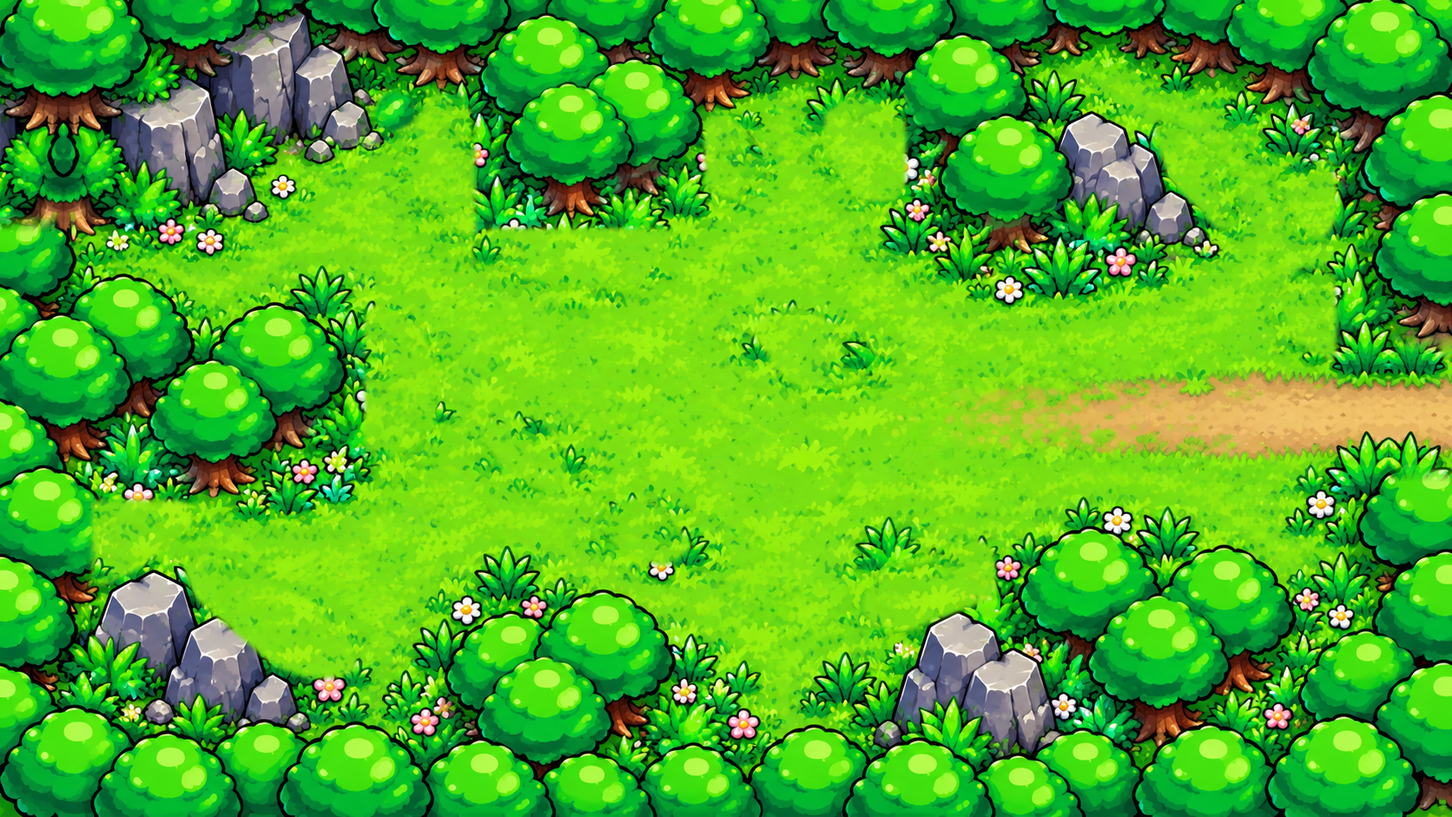
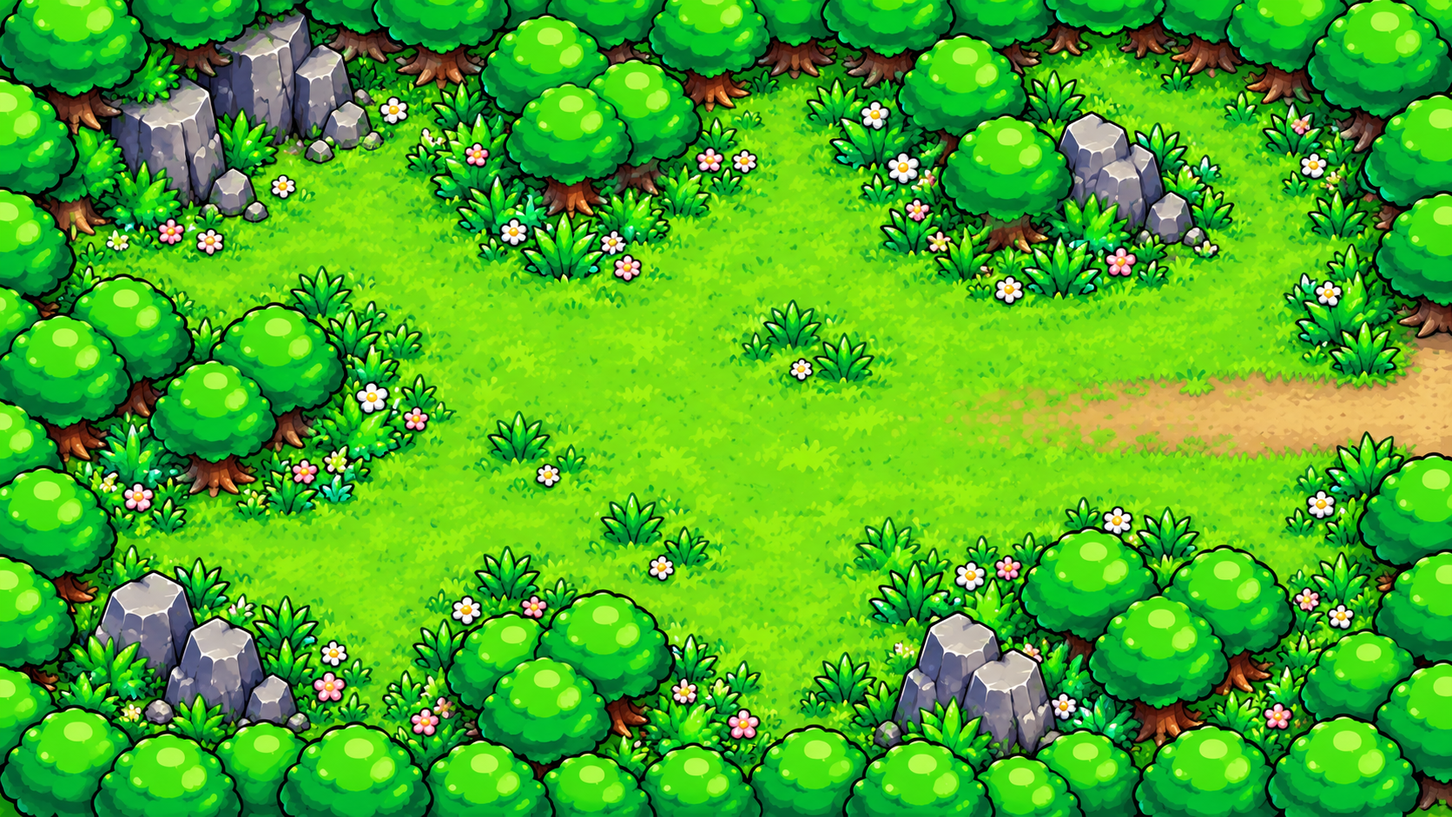
Jeu Spirit v54 : plus aucun collage sur les images peintes, textes cohérents
- écrans de la loge et de Mika : plus rien de dessiné par-dessus, en attendant les images ChatGPT (PRO-10 couvre les trois écrans, QG-13)
- Plaine : écrans d'origine sans retouche (plus de sol reconstitué ni de bords recopiés) ; seuls les rochers, découpés au pixel près, passent devant Spirit
- textes revus pour coller à ce qu'on voit (Mika, réveil, ermite, Flash, Manette, panneau)
- jeu-spirit/CLAUDE.md : règles de Jonathan (cohérence, jamais de collage, logique du monde)

Claude-Session: https://claude.ai/code/session_01H9Lthdyi4Yt8UdeFU5WNwb

diff --git a/jeu-spirit/jeu/js/decoupes.js b/jeu-spirit/jeu/js/decoupes.js
@@ -1,3 +1,3 @@
 // Généré par outils/decoupes_plaine.py : rochers et touffes découpés dans les écrans peints
 'use strict';
-SG.DECOUPES = {"1,2":[{"t":"h","s":[447,0,87,53],"d":[486.1,84.2,66.6,40.6],"b":124.0,"c":"#25ad1d"},{"t":"h","s":[536,0,108,67],"d":[729.6,84.2,82.7,51.3],"b":134.7,"c":"#1ba221"},{"t":"h","s":[646,0,104,59],"d":[889.6,84.2,79.6,45.2],"b":128.6,"c":"#1c9f21"},{"t":"h","s":[752,0,45,43],"d":[970.0,122.5,34.4,32.9],"b":154.6,"c":"#83b17b"},{"t":"h","s":[799,0,60,84],"d":[463.9,130.9,45.9,64.3],"b":194.4,"c":"#27a31d"},{"t":"h","s":[861,0,43,43],"d":[528.2,156.9,32.9,32.9],"b":189.1,"c":"#83b47f"},{"t":"h","s":[906,0,56,48],"d":[1022.8,202.9,42.9,36.7],"b":238.9,"c":"#2da51a"},{"t":"h","s":[964,0,44,49],"d":[1071.0,222.8,33.7,37.5],"b":259.5,"c":"#77ab74"},{"t":"h","s":[1010,0,59,52],"d":[538.2,231.2,45.2,39.8],"b":270.2,"c":"#27a51c"},{"t":"h","s":[1071,0,57,49],"d":[811.5,242.7,43.6,37.5],"b":279.4,"c":"#29a519"},{"t":"h","s":[1130,0,59,51],"d":[699.7,258.0,45.2,39.0],"b":296.3,"c":"#29ab19"},{"t":"h","s":[1191,0,50,72],"d":[1156.7,273.3,38.3,55.1],"b":327.7,"c":"#2cad1d"},{"t":"h","s":[1243,0,50,46],"d":[885.0,274.8,38.3,35.2],"b":309.3,"c":"#25ac1c"},{"t":"h","s":[1295,0,67,51],"d":[88.8,284.0,51.3,39.0],"b":322.3,"c":"#0f9624"},{"t":"h","s":[1364,0,54,44],"d":[392.7,287.8,41.3,33.7],"b":320.8,"c":"#27a61b"},{"t":"h","s":[1420,0,57,46],"d":[186.0,288.6,43.6,35.2],"b":323.1,"c":"#24a21d"},{"t":"h","s":[1479,0,92,59],"d":[261.8,289.4,70.4,45.2],"b":333.8,"c":"#73ae57"},{"t":"h","s":[1573,0,63,53],"d":[786.2,299.3,48.2,40.6],"b":339.1,"c":"#27a51c"},{"t":"h","s":[1638,0,53,42],"d":[938.6,311.6,40.6,32.2],"b":343.0,"c":"#2da51a"},{"t":"h","s":[1693,0,54,45],"d":[1113.1,311.6,41.3,34.4],"b":345.3,"c":"#2ca61a"},{"t":"h","s":[1749,0,51,35],"d":[472.3,316.2,39.0,26.8],"b":342.2,"c":"#31aa18"},{"t":"h","s":[1802,0,64,55],"d":[328.4,433.3,49.0,42.1],"b":474.6,"c":"#21a21d"},{"t":"h","s":[1868,0,55,45],"d":[903.3,464.7,42.1,34.4],"b":498.4,"c":"#28a31b"},{"t":"h","s":[1925,0,59,46],"d":[675.2,474.6,45.2,35.2],"b":509.1,"c":"#29a71b"},{"t":"h","s":[1986,0,45,38],"d":[966.9,498.4,34.4,29.1],"b":526.7,"c":"#80b27b"},{"t":"h","s":[0,261,59,50],"d":[913.3,516.7,45.2,38.3],"b":554.3,"c":"#29a61c"},{"t":"h","s":[61,261,47,36],"d":[148.5,527.5,36.0,27.6],"b":554.3,"c":"#8e8c67"},{"t":"h","s":[110,261,58,49],"d":[718.1,531.3,44.4,37.5],"b":568.0,"c":"#26a41b"},{"t":"h","s":[170,261,47,47],"d":[778.6,533.6,36.0,36.0],"b":568.8,"c":"#81b278"},{"t":"h","s":[219,261,89,45],"d":[819.1,560.4,68.1,34.4],"b":594.1,"c":"#32ab1b"}],"1,1":[{"t":"r","s":[0,0,189,119],"d":[214.4,143.2,144.7,91.1],"b":233.5},{"t":"r","s":[191,0,131,87],"d":[824.5,144.7,100.3,66.6],"b":210.5},{"t":"r","s":[324,0,73,66],"d":[1011.3,222.0,55.9,50.5],"b":271.8},{"t":"r","s":[399,0,194,134],"d":[194.4,488.4,148.5,102.6],"b":590.2},{"t":"r","s":[595,0,220,133],"d":[939.3,499.9,168.4,101.8],"b":601.0},{"t":"h","s":[817,0,60,52],"d":[506.8,65.8,45.9,39.8],"b":104.9,"c":"#229b15"},{"t":"h","s":[879,0,94,53],"d":[421.1,92.6,72.0,40.6],"b":132.4,"c":"#3ba225"},{"t":"h","s":[975,0,38,34],"d":[809.2,103.3,29.1,26.0],"b":128.6,"c":"#6a8442"},{"t":"h","s":[1015,0,44,38],"d":[924.0,104.1,33.7,29.1],"b":132.4,"c":"#618b38"},{"t":"h","s":[1061,0,50,70],"d":[917.1,150.0,38.3,53.6],"b":202.9,"c":"#259612"},{"t":"h","s":[1113,0,56,53],"d":[924.8,203.6,42.9,40.6],"b":243.4,"c":"#239814"},{"t":"h","s":[1171,0,82,69],"d":[418.8,215.9,62.8,52.8],"b":267.9,"c":"#249b17"},{"t":"h","s":[1255,0,55,53],"d":[966.1,238.1,42.1,40.6],"b":277.9,"c":"#34a50d"},{"t":"h","s":[1312,0,39,48],"d":[365.2,242.7,29.9,36.7],"b":278.7,"c":"#67a54a"},{"t":"h","s":[1353,0,60,51],"d":[253.4,245.7,45.9,39.0],"b":284.0,"c":"#209616"},{"t":"h","s":[1415,0,38,41],"d":[492.2,251.1,29.1,31.4],"b":281.7,"c":"#6a8a3f"},{"t":"h","s":[1455,0,55,47],"d":[906.4,252.6,42.1,36.0],"b":287.8,"c":"#279c16"},{"t":"h","s":[1512,0,52,44],"d":[324.6,254.2,39.8,33.7],"b":287.1,"c":"#269a17"},{"t":"h","s":[1566,0,51,37],"d":[176.1,405.0,39.0,28.3],"b":432.5,"c":"#2ba013"},{"t":"h","s":[1619,0,55,66],"d":[736.5,409.6,42.1,50.5],"b":459.3,"c":"#52a831"},{"t":"h","s":[1676,0,55,39],"d":[1086.3,410.3,42.1,29.9],"b":439.4,"c":"#63903b"},{"t":"h","s":[1733,0,40,37],"d":[395.0,411.9,30.6,28.3],"b":439.4,"c":"#6e9e55"},{"t":"h","s":[1775,0,63,56],"d":[441.7,417.2,48.2,42.9],"b":459.3,"c":"#259816"},{"t":"h","s":[1840,0,41,37],"d":[131.7,456.3,31.4,28.3],"b":483.8,"c":"#6b9d57"},{"t":"h","s":[1883,0,49,37],"d":[372.1,509.9,37.5,28.3],"b":537.4,"c":"#6ea14d"},{"t":"h","s":[1934,0,41,38],"d":[1069.5,509.9,31.4,29.1],"b":538.2,"c":"#3b9b0e"},{"t":"h","s":[1977,0,51,34],"d":[813.8,512.9,39.0,26.0],"b":538.2,"c":"#35a710"},{"t":"h","s":[0,136,55,55],"d":[918.7,532.8,42.1,42.1],"b":574.2,"c":"#339711"},{"t":"h","s":[57,136,67,50],"d":[84.2,536.7,51.3,38.3],"b":574.2,"c":"#31a510"},{"t":"h","s":[126,136,47,40],"d":[182.2,544.3,36.0,30.6],"b":574.2,"c":"#187713"}],"1,0":[{"t":"r","s":[0,0,250,129],"d":[288.6,106.4,191.4,98.8],"b":204.4},{"t":"r","s":[252,0,248,151],"d":[161.5,447.8,189.9,115.6],"b":562.7},{"t":"r","s":[502,0,137,108],"d":[832.2,487.7,104.9,82.7],"b":569.6},{"t":"h","s":[641,0,76,83],"d":[696.7,84.2,58.2,63.5],"b":147.0,"c":"#42a72c"},{"t":"h","s":[719,0,38,34],"d":[216.7,88.8,29.1,26.0],"b":114.1,"c":"#73a160"},{"t":"h","s":[759,0,50,51],"d":[442.5,117.1,38.3,39.0],"b":155.4,"c":"#1c8a1e"},{"t":"h","s":[811,0,89,50],"d":[505.3,117.9,68.1,38.3],"b":155.4,"c":"#38a12a"},{"t":"h","s":[902,0,70,85],"d":[701.2,169.2,53.6,65.1],"b":233.5,"c":"#369c28"},{"t":"h","s":[974,0,40,50],"d":[1144.5,199.8,30.6,38.3],"b":237.3,"c":"#23931d"},{"t":"h","s":[1016,0,40,64],"d":[1144.5,253.4,30.6,49.0],"b":301.6,"c":"#3ba125"},{"t":"h","s":[1058,0,55,43],"d":[324.6,264.1,42.1,32.9],"b":296.3,"c":"#199a20"},{"t":"h","s":[1115,0,69,57],"d":[454.7,267.2,52.8,43.6],"b":310.0,"c":"#19901d"},{"t":"h","s":[1186,0,54,41],"d":[1148.3,390.4,41.3,31.4],"b":421.1,"c":"#25a21c"},{"t":"h","s":[1242,0,45,41],"d":[156.9,391.2,34.4,31.4],"b":421.8,"c":"#82935c"},{"t":"h","s":[1289,0,108,65],"d":[780.1,399.6,82.7,49.8],"b":448.6,"c":"#3aa42b"},{"t":"h","s":[1399,0,64,54],"d":[518.3,438.7,49.0,41.3],"b":479.2,"c":"#1e961d"},{"t":"h","s":[1465,0,42,34],"d":[193.7,440.2,32.2,26.0],"b":465.5,"c":"#31a61a"},{"t":"h","s":[1509,0,44,51],"d":[745.6,444.0,33.7,39.0],"b":482.3,"c":"#789a51"},{"t":"h","s":[1555,0,54,44],"d":[108.7,460.1,41.3,33.7],"b":493.0,"c":"#289d1d"},{"t":"h","s":[1611,0,48,42],"d":[314.6,481.5,36.7,32.2],"b":512.9,"c":"#1b8e1b"},{"t":"h","s":[1661,0,60,46],"d":[985.3,487.7,45.9,35.2],"b":522.1,"c":"#1b9920"},{"t":"h","s":[1723,0,64,53],"d":[460.1,497.6,49.0,40.6],"b":537.4,"c":"#199520"},{"t":"h","s":[1789,0,107,79],"d":[803.8,517.5,81.9,60.5],"b":577.2,"c":"#328139"},{"t":"h","s":[1898,0,70,59],"d":[712.0,539.7,53.6,45.2],"b":584.1,"c":"#1e961e"},{"t":"h","s":[1970,0,43,35],"d":[488.4,548.1,32.9,26.8],"b":574.2,"c":"#8b9866"},{"t":"h","s":[0,153,40,39],"d":[775.5,560.4,30.6,29.9],"b":589.5,"c":"#7fa15d"}],"0,1":[{"t":"r","s":[0,0,312,238],"d":[92.6,9.2,238.9,182.2],"b":190.6},{"t":"r","s":[314,0,171,156],"d":[930.9,98.0,130.9,119.4],"b":216.7},{"t":"r","s":[487,0,237,181],"d":[80.4,503.0,181.4,138.6],"b":640.8},{"t":"r","s":[726,0,173,160],"d":[789.3,538.9,132.4,122.5],"b":660.7},{"t":"h","s":[901,0,38,37],"d":[333.8,84.2,29.1,28.3],"b":111.8,"c":"#85a16b"},{"t":"h","s":[941,0,80,159],"d":[355.2,84.2,61.2,121.7],"b":205.2,"c":"#329a22"},{"t":"h","s":[1023,0,86,119],"d":[729.6,84.2,65.8,91.1],"b":174.5,"c":"#339a32"},{"t":"h","s":[1111,0,60,93],"d":[623.9,100.3,45.9,71.2],"b":170.7,"c":"#50a033"},{"t":"h","s":[1173,0,91,116],"d":[1020.5,110.2,69.7,88.8],"b":198.3,"c":"#43aa24"},{"t":"h","s":[1266,0,61,84],"d":[1128.4,143.9,46.7,64.3],"b":207.5,"c":"#46a428"},{"t":"h","s":[1329,0,222,61],"d":[419.5,204.4,170.0,46.7],"b":250.3,"c":"#42a12e"},{"t":"h","s":[1553,0,57,97],"d":[1131.5,239.6,43.6,74.3],"b":313.1,"c":"#3ca036"},{"t":"h","s":[1612,0,78,178],"d":[324.6,271.8,59.7,136.3],"b":407.3,"c":"#46aa29"},{"t":"h","s":[1692,0,136,87],"d":[666.8,271.8,104.1,66.6],"b":337.6,"c":"#39a723"},{"t":"h","s":[1830,0,89,82],"d":[427.9,369.8,68.1,62.8],"b":431.8,"c":"#3fa728"},{"t":"h","s":[1921,0,102,70],"d":[527.5,441.7,78.1,53.6],"b":494.5,"c":"#32a61d"},{"t":"h","s":[0,240,108,90],"d":[84.2,444.0,82.7,68.9],"b":512.2,"c":"#2c941c"},{"t":"h","s":[110,240,145,98],"d":[764.0,479.2,111.0,75.0],"b":553.5,"c":"#3aa32c"},{"t":"h","s":[257,240,190,138],"d":[166.1,489.2,145.5,105.6],"b":594.1,"c":"#45a824"}],"0,2":[{"t":"r","s":[0,0,84,77],"d":[77.3,98.8,64.3,58.9],"b":156.9},{"t":"r","s":[86,0,82,73],"d":[1058.8,52.1,62.8,55.9],"b":107.2},{"t":"r","s":[170,0,94,78],"d":[499.1,485.4,72.0,59.7],"b":544.3},{"t":"r","s":[266,0,62,68],"d":[84.2,488.4,47.5,52.1],"b":539.7},{"t":"r","s":[330,0,68,63],"d":[149.3,573.4,52.1,48.2],"b":620.9},{"t":"r","s":[400,0,104,81],"d":[1121.5,520.6,79.6,62.0],"b":581.8},{"t":"h","s":[506,0,98,65],"d":[148.5,84.2,75.0,49.8],"b":133.2,"c":"#2f9830"},{"t":"h","s":[606,0,143,58],"d":[676.0,84.2,109.5,44.4],"b":127.8,"c":"#2f932d"},{"t":"h","s":[751,0,116,51],"d":[982.2,84.2,88.8,39.0],"b":122.5,"c":"#318d32"},{"t":"h","s":[869,0,45,45],"d":[240.4,151.6,34.4,34.4],"b":185.3,"c":"#85b177"},{"t":"h","s":[916,0,38,65],"d":[1118.5,161.5,29.1,49.8],"b":210.5,"c":"#1f9628"},{"t":"h","s":[956,0,47,43],"d":[111.0,236.6,36.0,32.9],"b":268.7,"c":"#92b97a"},{"t":"h","s":[1005,0,50,79],"d":[84.2,281.7,38.3,60.5],"b":341.4,"c":"#30a822"},{"t":"h","s":[1057,0,50,50],"d":[170.0,332.2,38.3,38.3],"b":369.8,"c":"#908557"},{"t":"h","s":[1109,0,48,46],"d":[1054.2,397.3,36.7,35.2],"b":431.8,"c":"#9c895b"},{"t":"h","s":[1159,0,85,76],"d":[975.3,404.2,65.1,58.2],"b":461.6,"c":"#28a020"},{"t":"h","s":[1246,0,64,58],"d":[183.7,447.8,49.0,44.4],"b":491.5,"c":"#27a021"},{"t":"h","s":[1312,0,48,43],"d":[641.5,473.1,36.7,32.9],"b":505.3,"c":"#8bb675"},{"t":"h","s":[1362,0,48,43],"d":[228.1,495.3,36.7,32.9],"b":527.5,"c":"#93b97c"},{"t":"h","s":[1412,0,49,45],"d":[946.2,497.6,37.5,34.4],"b":531.3,"c":"#90b97b"},{"t":"h","s":[1463,0,82,45],"d":[1005.9,560.4,62.8,34.4],"b":594.1,"c":"#799743"},{"t":"h","s":[1547,0,56,36],"d":[940.1,567.3,42.9,27.6],"b":594.1,"c":"#40b51c"}],"2,0":[{"t":"r","s":[0,0,199,199],"d":[1058.0,49.0,152.3,152.3],"b":200.6},{"t":"r","s":[201,0,237,149],"d":[1037.3,527.5,181.4,114.1],"b":640.8},{"t":"h","s":[440,0,39,37],"d":[1039.6,113.3,29.9,28.3],"b":140.9,"c":"#18841a"},{"t":"h","s":[481,0,182,108],"d":[918.7,143.2,139.3,82.7],"b":225.1,"c":"#38ac1c"},{"t":"h","s":[665,0,39,39],"d":[405.0,146.2,29.9,29.9],"b":175.3,"c":"#2da31a"},{"t":"h","s":[706,0,44,37],"d":[877.3,148.5,33.7,28.3],"b":176.1,"c":"#29a319"},{"t":"h","s":[752,0,70,56],"d":[356.0,164.6,53.6,42.9],"b":206.7,"c":"#509d32"},{"t":"h","s":[824,0,44,40],"d":[1064.1,179.9,33.7,30.6],"b":209.8,"c":"#5fa054"},{"t":"h","s":[870,0,68,65],"d":[824.5,183.7,52.1,49.8],"b":232.7,"c":"#35922a"},{"t":"h","s":[940,0,63,66],"d":[85.7,184.5,48.2,50.5],"b":234.3,"c":"#3a9c34"},{"t":"h","s":[1005,0,68,37],"d":[211.3,184.5,52.1,28.3],"b":212.1,"c":"#1c9e1d"},{"t":"h","s":[1075,0,70,52],"d":[150.0,199.0,53.6,39.8],"b":238.1,"c":"#20a31c"},{"t":"h","s":[1147,0,48,37],"d":[865.1,229.7,36.7,28.3],"b":257.2,"c":"#2da319"},{"t":"h","s":[1197,0,54,41],"d":[919.4,237.3,41.3,31.4],"b":267.9,"c":"#51a440"},{"t":"h","s":[1253,0,128,77],"d":[300.1,241.1,98.0,58.9],"b":299.3,"c":"#27a41d"},{"t":"h","s":[1383,0,50,47],"d":[479.2,264.1,38.3,36.0],"b":299.3,"c":"#2a9f15"},{"t":"h","s":[1435,0,50,62],"d":[744.1,264.1,38.3,47.5],"b":310.8,"c":"#0b791c"},{"t":"h","s":[1487,0,51,59],"d":[394.3,300.1,39.0,45.2],"b":344.5,"c":"#29a51c"},{"t":"h","s":[1540,0,44,35],"d":[966.9,318.5,33.7,26.8],"b":344.5,"c":"#2da019"},{"t":"h","s":[1586,0,48,36],"d":[729.6,348.3,36.7,27.6],"b":375.1,"c":"#30a21a"},{"t":"h","s":[1636,0,68,49],"d":[852.1,356.0,52.1,37.5],"b":392.7,"c":"#74a051"},{"t":"h","s":[1706,0,91,75],"d":[359.0,397.3,69.7,57.4],"b":454.0,"c":"#28a41d"},{"t":"h","s":[1799,0,58,50],"d":[836.0,414.2,44.4,38.3],"b":451.7,"c":"#24a11a"},{"t":"h","s":[1859,0,45,54],"d":[421.1,450.9,34.4,41.3],"b":491.5,"c":"#2da31b"},{"t":"h","s":[1906,0,57,48],"d":[473.1,459.3,43.6,36.7],"b":495.3,"c":"#25a11b"},{"t":"h","s":[1965,0,75,77],"d":[303.9,466.2,57.4,58.9],"b":524.4,"c":"#22a21e"},{"t":"h","s":[0,201,77,52],"d":[862.0,478.5,58.9,39.8],"b":517.5,"c":"#24a51d"},{"t":"h","s":[79,201,58,49],"d":[1120.0,493.0,44.4,37.5],"b":529.8,"c":"#59aa3a"},{"t":"h","s":[139,201,85,60],"d":[932.4,500.7,65.1,45.9],"b":545.8,"c":"#49a12d"},{"t":"h","s":[226,201,88,83],"d":[794.6,509.1,67.4,63.5],"b":571.9,"c":"#43a728"},{"t":"h","s":[316,201,75,47],"d":[378.9,516.7,57.4,36.0],"b":552.0,"c":"#51aa3d"},{"t":"h","s":[393,201,51,38],"d":[581.8,524.4,39.0,29.1],"b":552.7,"c":"#2ba11b"},{"t":"h","s":[446,201,75,45],"d":[679.8,560.4,57.4,34.4],"b":594.1,"c":"#29a91c"},{"t":"h","s":[523,201,53,44],"d":[738.0,561.1,40.6,33.7],"b":594.1,"c":"#67ad47"},{"t":"h","s":[578,201,74,40],"d":[335.3,564.2,56.7,30.6],"b":594.1,"c":"#38a91b"},{"t":"h","s":[654,201,79,34],"d":[523.6,568.8,60.5,26.0],"b":594.1,"c":"#4ca32d"}],"2,1":[{"t":"r","s":[0,0,514,376],"d":[777.8,73.5,393.5,287.8],"b":360.6},{"t":"h","s":[516,0,49,34],"d":[265.6,104.1,37.5,26.0],"b":129.4,"c":"#158e22"},{"t":"h","s":[567,0,99,71],"d":[349.1,104.1,75.8,54.4],"b":157.7,"c":"#249f1e"},{"t":"h","s":[668,0,73,52],"d":[474.6,104.1,55.9,39.8],"b":143.2,"c":"#289b1d"},{"t":"h","s":[743,0,127,51],"d":[672.2,104.1,97.2,39.0],"b":142.4,"c":"#1ea220"},{"t":"h","s":[872,0,71,67],"d":[784.7,125.6,54.4,51.3],"b":176.1,"c":"#35a018"},{"t":"h","s":[945,0,44,45],"d":[636.9,127.8,33.7,34.4],"b":161.5,"c":"#80ab71"},{"t":"h","s":[991,0,118,91],"d":[529.8,129.4,90.3,69.7],"b":198.3,"c":"#27a01f"},{"t":"h","s":[1111,0,88,71],"d":[715.0,158.5,67.4,54.4],"b":212.1,"c":"#2c9e1c"},{"t":"h","s":[1201,0,65,53],"d":[215.9,209.8,49.8,40.6],"b":249.6,"c":"#2b9b1e"},{"t":"h","s":[1268,0,71,57],"d":[487.7,219.7,54.4,43.6],"b":262.6,"c":"#299c1e"},{"t":"h","s":[1341,0,41,40],"d":[1060.3,269.5,31.4,30.6],"b":299.3,"c":"#0e6518"},{"t":"h","s":[1384,0,101,91],"d":[829.1,271.8,77.3,69.7],"b":340.7,"c":"#2f882c"},{"t":"h","s":[1487,0,81,65],"d":[666.0,298.6,62.0,49.8],"b":347.6,"c":"#2b9d1d"},{"t":"h","s":[1570,0,49,34],"d":[570.3,300.1,37.5,26.0],"b":325.4,"c":"#34a51b"},{"t":"h","s":[1621,0,68,35],"d":[1002.9,330.7,52.1,26.8],"b":356.7,"c":"#23632d"},{"t":"h","s":[1691,0,46,45],"d":[1133.0,346.8,35.2,34.4],"b":380.5,"c":"#80a873"},{"t":"h","s":[1739,0,45,62],"d":[84.2,369.0,34.4,47.5],"b":415.7,"c":"#2da221"},{"t":"h","s":[1786,0,42,61],"d":[1162.9,375.1,32.2,46.7],"b":421.1,"c":"#2d9f1f"},{"t":"h","s":[1830,0,47,45],"d":[625.5,388.1,36.0,34.4],"b":421.8,"c":"#81aa74"},{"t":"h","s":[1879,0,68,58],"d":[951.6,402.7,52.1,44.4],"b":446.3,"c":"#2d9f1f"},{"t":"h","s":[1949,0,44,44],"d":[367.5,478.5,33.7,33.7],"b":511.4,"c":"#878a5e"},{"t":"h","s":[1995,0,45,46],"d":[696.7,539.7,34.4,35.2],"b":574.2,"c":"#898e5e"}],"2,2":[{"t":"r","s":[0,0,70,65],"d":[62.8,232.0,53.6,49.8],"b":281.0},{"t":"r","s":[72,0,518,252],"d":[114.8,65.1,396.6,192.9],"b":257.2},{"t":"r","s":[592,0,428,254],"d":[823.7,77.3,327.7,194.4],"b":271.0},{"t":"r","s":[1022,0,89,84],"d":[731.9,327.7,68.1,64.3],"b":391.2},{"t":"r","s":[1113,0,73,66],"d":[450.1,408.0,55.9,50.5],"b":457.8},{"t":"r","s":[1188,0,72,83],"d":[1103.2,398.1,55.1,63.5],"b":460.9},{"t":"r","s":[1262,0,129,111],"d":[128.6,496.8,98.8,85.0],"b":581.1},{"t":"r","s":[1393,0,87,80],"d":[824.5,546.6,66.6,61.2],"b":607.1},{"t":"h","s":[1482,0,100,61],"d":[118.7,84.2,76.6,46.7],"b":130.1,"c":"#39941c"},{"t":"h","s":[1584,0,123,79],"d":[700.5,84.2,94.2,60.5],"b":143.9,"c":"#2b911e"},{"t":"h","s":[1709,0,65,59],"d":[798.5,117.1,49.8,45.2],"b":161.5,"c":"#24981a"},{"t":"h","s":[1776,0,67,58],"d":[537.4,137.8,51.3,44.4],"b":181.4,"c":"#259a1a"},{"t":"h","s":[1845,0,101,83],"d":[715.0,147.8,77.3,63.5],"b":210.5,"c":"#249c1d"},{"t":"h","s":[1948,0,42,51],"d":[1162.9,175.3,32.2,39.0],"b":213.6,"c":"#21911d"},{"t":"h","s":[1992,0,52,62],"d":[1120.8,191.4,39.8,47.5],"b":238.1,"c":"#298222"},{"t":"h","s":[0,256,116,151],"d":[222.8,196.7,88.8,115.6],"b":311.6,"c":"#2c9722"},{"t":"h","s":[118,256,94,72],"d":[776.3,206.7,72.0,55.1],"b":261.1,"c":"#499b2d"},{"t":"h","s":[214,256,43,47],"d":[492.2,207.5,32.9,36.0],"b":242.7,"c":"#2d6843"},{"t":"h","s":[259,256,45,37],"d":[718.9,226.6,34.4,28.3],"b":254.2,"c":"#2c9a1b"},{"t":"h","s":[306,256,100,62],"d":[930.1,227.4,76.6,47.5],"b":274.1,"c":"#2c6f36"},{"t":"h","s":[408,256,62,39],"d":[379.7,251.9,47.5,29.9],"b":281.0,"c":"#16821b"},{"t":"h","s":[472,256,68,69],"d":[91.9,259.5,52.1,52.8],"b":311.6,"c":"#248a21"},{"t":"h","s":[542,256,67,58],"d":[761.0,267.2,51.3,44.4],"b":310.8,"c":"#25971c"},{"t":"h","s":[611,256,56,41],"d":[1026.6,267.9,42.9,31.4],"b":298.6,"c":"#1f8b1e"},{"t":"h","s":[669,256,105,125],"d":[796.2,301.6,80.4,95.7],"b":396.6,"c":"#279321"},{"t":"h","s":[776,256,68,62],"d":[983.0,308.5,52.1,47.5],"b":355.2,"c":"#299d1c"},{"t":"h","s":[846,256,41,51],"d":[696.7,352.9,31.4,39.0],"b":391.2,"c":"#29991a"},{"t":"h","s":[889,256,43,64],"d":[1162.1,361.3,32.9,49.0],"b":409.6,"c":"#20931e"},{"t":"h","s":[934,256,141,106],"d":[950.8,380.5,107.9,81.1],"b":460.9,"c":"#2f9c25"},{"t":"h","s":[1077,256,51,42],"d":[832.9,407.3,39.0,32.2],"b":438.7,"c":"#289719"},{"t":"h","s":[1130,256,141,99],"d":[207.5,412.6,107.9,75.8],"b":487.7,"c":"#269a1e"},{"t":"h","s":[1273,256,107,74],"d":[487.7,421.1,81.9,56.7],"b":476.9,"c":"#268728"},{"t":"h","s":[1382,256,50,47],"d":[320.8,428.7,38.3,36.0],"b":463.9,"c":"#65a951"},{"t":"h","s":[1434,256,44,49],"d":[422.6,430.2,33.7,37.5],"b":467.0,"c":"#228f1a"},{"t":"h","s":[1480,256,60,59],"d":[150.8,433.3,45.9,45.2],"b":477.7,"c":"#5a8e3b"},{"t":"h","s":[1542,256,41,36],"d":[998.3,482.3,31.4,27.6],"b":509.1,"c":"#4d9a36"},{"t":"h","s":[1585,256,95,49],"d":[414.9,510.6,72.7,37.5],"b":547.4,"c":"#549534"},{"t":"h","s":[1682,256,84,46],"d":[548.1,539.7,64.3,35.2],"b":574.2,"c":"#39a91c"},{"t":"h","s":[1768,256,57,37],"d":[771.7,546.6,43.6,28.3],"b":574.2,"c":"#32a11b"}]};
+SG.DECOUPES = {"1,2":[],"1,1":[{"t":"r","s":[0,0,189,119],"d":[214.4,143.2,144.7,91.1],"b":233.5},{"t":"r","s":[191,0,131,87],"d":[824.5,144.7,100.3,66.6],"b":210.5},{"t":"r","s":[324,0,73,66],"d":[1011.3,222.0,55.9,50.5],"b":271.8},{"t":"r","s":[399,0,194,134],"d":[194.4,488.4,148.5,102.6],"b":590.2},{"t":"r","s":[595,0,220,133],"d":[939.3,499.9,168.4,101.8],"b":601.0}],"1,0":[{"t":"r","s":[0,0,250,129],"d":[288.6,106.4,191.4,98.8],"b":204.4},{"t":"r","s":[252,0,248,151],"d":[161.5,447.8,189.9,115.6],"b":562.7},{"t":"r","s":[502,0,137,108],"d":[832.2,487.7,104.9,82.7],"b":569.6}],"0,1":[{"t":"r","s":[0,0,312,238],"d":[92.6,9.2,238.9,182.2],"b":190.6},{"t":"r","s":[314,0,171,156],"d":[930.9,98.0,130.9,119.4],"b":216.7},{"t":"r","s":[487,0,237,181],"d":[80.4,503.0,181.4,138.6],"b":640.8},{"t":"r","s":[726,0,173,160],"d":[789.3,538.9,132.4,122.5],"b":660.7}],"0,2":[{"t":"r","s":[0,0,84,77],"d":[77.3,98.8,64.3,58.9],"b":156.9},{"t":"r","s":[86,0,82,73],"d":[1058.8,52.1,62.8,55.9],"b":107.2},{"t":"r","s":[170,0,94,78],"d":[499.1,485.4,72.0,59.7],"b":544.3},{"t":"r","s":[266,0,62,68],"d":[84.2,488.4,47.5,52.1],"b":539.7},{"t":"r","s":[330,0,68,63],"d":[149.3,573.4,52.1,48.2],"b":620.9},{"t":"r","s":[400,0,104,81],"d":[1121.5,520.6,79.6,62.0],"b":581.8}],"2,0":[{"t":"r","s":[0,0,199,199],"d":[1058.0,49.0,152.3,152.3],"b":200.6},{"t":"r","s":[201,0,237,149],"d":[1037.3,527.5,181.4,114.1],"b":640.8}],"2,1":[{"t":"r","s":[0,0,514,376],"d":[777.8,73.5,393.5,287.8],"b":360.6}],"2,2":[{"t":"r","s":[0,0,70,65],"d":[62.8,232.0,53.6,49.8],"b":281.0},{"t":"r","s":[72,0,518,252],"d":[114.8,65.1,396.6,192.9],"b":257.2},{"t":"r","s":[592,0,428,254],"d":[823.7,77.3,327.7,194.4],"b":271.0},{"t":"r","s":[1022,0,89,84],"d":[731.9,327.7,68.1,64.3],"b":391.2},{"t":"r","s":[1113,0,73,66],"d":[450.1,408.0,55.9,50.5],"b":457.8},{"t":"r","s":[1188,0,72,83],"d":[1103.2,398.1,55.1,63.5],"b":460.9},{"t":"r","s":[1262,0,129,111],"d":[128.6,496.8,98.8,85.0],"b":581.1},{"t":"r","s":[1393,0,87,80],"d":[824.5,546.6,66.6,61.2],"b":607.1}]};

diff --git a/jeu-spirit/catalogue/catalogue.html b/jeu-spirit/catalogue/catalogue.html
@@ -250,11 +250,11 @@ Le centre de la pièce reste dégagé pour marcher.`]);
     ['Spirit aspiré, vu de face, en train de tomber dans le vide : bras et jambes écartés, les yeux grands ouverts, la bouche en « o », le casque bien en place, le tee-shirt qui flotte vers le haut.',
      'Spirit qui vient d\'atterrir, vu de face : un genou au sol, une main posée par terre, l\'autre main sur l\'écouteur de son casque, la tête relevée, un petit sourire décidé.']);
 
-  carte('pro', 'decors', 'Les écrans de ta loge (allumés)', 'Pour que les écrans de ton bureau ne restent pas noirs et qu\'on ne voie plus mes cadres collés. Le jeu ne reprend que la zone des écrans. Noms des fichiers : loge-ecrans-jeu.png, loge-ecrans-pub.png, loge-ecran-sg-brouille.png.', ['loge', 'titre'],
+  carte('pro', 'decors', 'Les écrans de ta loge (allumés)', 'Tes trois écrans, peints par ChatGPT (je ne dessine plus rien par-dessus). Le jeu ne reprend que la zone des écrans. Noms des fichiers : loge-ecrans-jeu.png, loge-ecrans-pub.png, loge-ecran-sg-brouille.png.', ['loge', 'titre'],
     null, [], null, [
-      `Reprends l'image de ta loge jointe. Garde exactement les mêmes dimensions (1672 × 941 pixels, sans recadrer, sans bordure ajoutée) et garde absolument tout identique, bouteille de soda comprise. Change uniquement le contenu des deux écrans de gauche : le grand écran de gauche affiche un jeu d'aventure coloré en pause, l'écran du milieu une fenêtre de tchat avec des lignes de messages colorées sans texte lisible. Les écrans éclairent doucement le bureau. L'écran incurvé de droite avec le logo SG ne change pas.`,
-      `Reprends la même image de ta loge. Change uniquement le contenu des deux écrans de gauche : tous deux affichent la même publicité envahissante du Roi Clickbait (créature faite de fenêtres pub empilées, couronne de néon violet, grand sourire, fond rouge et violet), sans texte lisible, avec une lueur rouge et violette qui déborde sur le bureau. Rien d'autre ne change.`,
-      `Reprends la même image avec les écrans envahis par la pub. Change uniquement le grand écran incurvé de droite : tout l'écran, d'un bord à l'autre, est brouillé par des parasites cyan et des bandes horizontales lumineuses, le logo SG à peine visible au travers, comme si un signal essayait de passer. Rien d'autre ne change.`]);
+      `Reprends l'image de ta loge jointe. Garde exactement les mêmes dimensions (1672 × 941 pixels, sans recadrer, sans bordure ajoutée) et garde absolument tout identique, bouteille de soda comprise. Change uniquement le contenu des trois écrans du bureau : le grand écran de gauche affiche un jeu d'aventure coloré en pause, l'écran du milieu une fenêtre de tchat avec des lignes de messages colorées sans texte lisible, et le grand écran incurvé de droite garde son logo SG sur fond noir, en veille, légèrement assombri. Les écrans éclairent doucement le bureau.`,
+      `Reprends la même image de ta loge. Change uniquement le contenu des trois écrans du bureau : les trois, y compris le grand écran incurvé de droite (le logo SG a disparu), affichent la même publicité envahissante du Roi Clickbait (créature faite de fenêtres pub empilées, couronne de néon violet, grand sourire, fond rouge et violet), sans texte lisible, chacune remplissant son écran d'un bord à l'autre et suivant la courbure de l'écran incurvé, avec une lueur rouge et violette qui déborde sur le bureau. Rien d'autre ne change.`,
+      `Reprends la même image avec les écrans envahis par la pub. Change uniquement le grand écran incurvé de droite : la pub disparaît, tout l'écran, d'un bord à l'autre, est brouillé par des parasites cyan et des bandes horizontales lumineuses, le logo SG qui réapparaît au travers, comme si un signal essayait de passer. Les deux autres écrans gardent la pub. Rien d'autre ne change.`]);
 
   // ================================================================== PLAINE DES PIXELS : écrans entiers
   const PLAINE_BORD = 'des arbres touffus vert vif aux troncs bruns, comme sur le décor joint';

diff --git a/jeu-spirit/jeu/js/monde.js b/jeu-spirit/jeu/js/monde.js
@@ -127,7 +127,7 @@ SG.MONDE = {
       '................',
     ],
     ennemis: [['crache', 4, 6], ['gresille', 12, 2], ['gresille', 13, 6]],
-    panneaux: { '6,2': 'Route de la Forêt des Forums. Une barrière de Bruit ferme le passage. Le cristal sur l\'îlot, de l\'autre côté de l\'eau, semble la commander.' },
+    panneaux: { '6,2': 'Route de la Forêt des Forums. Une barrière de Bruit ferme le passage. Le cristal sur l\'îlot, au milieu de l\'étang, semble la commander. Il est hors de portée de main.' },
   },
   '0,0': {
     nom: 'Le Bois aux Grésilles',
@@ -229,12 +229,12 @@ SG.TEXTES = {
   reveil: [
     [null, 'Pendant ce temps, au fond du QG, Spirit s\'était endormi devant son écran, le casque sur les oreilles. Il n\'a rien entendu de la fête ni de l\'attaque.'],
     ['spirit', 'Hein ? Qu\'est-ce que c\'est que ce grésillement dans mon casque ?'],
-    ['spirit', 'Et mes écrans qui affichent tous la même pub... Il se passe un truc. Je vais voir si Mika a le même problème.'],
+    ['spirit', 'Il se passe un truc. Je vais voir si Mika entend la même chose.'],
   ],
   lynx: [
     ['lynx', 'Ah, enfin ! Tu tombes bien, j\'allais justement régler le problème. Tout seul, évidemment.'],
-    ['spirit', 'Tes écrans aussi affichent la pub avec la couronne ?'],
-    ['lynx', 'Mon PC a planté en plein raid. En plein raid ! Moi qui étais à deux doigts de tout gagner.'],
+    ['spirit', 'Toi aussi, tu entends ce grésillement ?'],
+    ['lynx', 'Moi ? Non. Par contre mon PC s\'est figé en plein raid. En plein raid ! Moi qui étais à deux doigts de tout gagner.'],
     ['lynx', 'Bon. Gus te cherche dans le hall. Dis-lui que c\'est moi qui t\'envoie : ici, c\'est moi le boss.'],
   ],
   lynxApres: [['lynx', 'Va voir Gus dans le hall. Moi je garde le QG, il faut bien que quelqu\'un dirige.']],
@@ -255,10 +255,10 @@ SG.TEXTES = {
   portailFerme: 'La porte est fermée. Le signal dans le casque de Spirit est encore trop faible.',
   arriveePlaine: [
     [null, 'Spirit traverse la lumière et atterrit au milieu d\'un monde inconnu : la Plaine des Pixels, le premier pays du Réseau.'],
-    ['spirit', 'Le signal est plus fort ici. Il vient de cette grotte, tout près.'],
+    ['spirit', 'Le grésillement est plus net ici. On dirait qu\'il vient de cette grotte, tout près.'],
   ],
   ermiteDon: [
-    ['ermite', 'Te voilà enfin. Je sens ton signal depuis ce matin.'],
+    ['ermite', 'Te voilà enfin. Je sens ton signal depuis le début de la soirée.'],
     ['spirit', 'Il y a des monstres partout dans la Plaine. Qu\'est-ce qui se passe ?'],
     ['ermite', 'Le Roi Clickbait a brisé la Source et donné corps à la rumeur. Ces créatures sont faites de Bruit.'],
     ['ermite', 'Ton casque t\'a protégé. Mais un casque ne suffira pas pour te défendre.'],
@@ -267,7 +267,6 @@ SG.TEXTES = {
   ermiteApres: [
     ['ermite', 'Quand ton cœur est plein, ton onde porte beaucoup plus loin. Garde-le en tête.'],
     ['ermite', 'Le Bruit a creusé un terrier sous le Bois aux Grésilles, au nord-ouest de la Plaine. Le premier Gardien, Flash, y est retenu.'],
-    ['ermite', 'Fouille aussi les buissons et les hautes herbes : le Bruit y cache parfois des choses.'],
   ],
   ermiteRevoir: [
     ['ermite', 'Le Terrier des Pop-ups est au nord-ouest, dans le Bois aux Grésilles. Reviens me voir si tu as besoin de reprendre des forces.'],

diff --git a/jeu-spirit/jeu/js/donjon.js b/jeu-spirit/jeu/js/donjon.js
@@ -197,7 +197,7 @@ SG.TEXTES.donjon = {
   carte: 'Tu as trouvé la carte du Terrier ! Appuie sur Tab (ou le bouton carte) pour voir toutes les salles du donjon.',
   boussole: 'Tu as trouvé la boussole ! Sur la carte, elle montre les coffres pas encore ouverts et la salle du boss.',
   cleBoss: 'Tu as trouvé la grande clé ! Elle ouvre la porte de la Reine Pop-up.',
-  manette: 'Tu as obtenu la Manette Retour ! Appuie sur B (C au clavier) pour la lancer : elle revient toujours dans ta main. Elle étourdit les monstres, active les cristaux à distance et rapporte les objets hors de portée.',
+  manette: 'Tu as obtenu la Manette Retour ! Appuie sur B (C au clavier) pour la lancer : elle revient toujours dans ta main. Elle étourdit les monstres, casse les pots, active les cristaux à distance et rapporte les objets hors de portée.',
   resolu: 'Un déclic résonne dans la salle.',
   coeurOr: 'Tu as obtenu un Cœur d\'or ! Ta vie augmente d\'un cœur, et elle est entièrement rechargée.',
   bossDebut: [[null, 'La Reine Pop-up surgit dans un fracas de fenêtres ! Son écran est protégé : il faudra l\'étourdir pour l\'atteindre.']],
@@ -205,8 +205,8 @@ SG.TEXTES.donjon = {
     ['flash', 'Hou hou ! Enfin libre ! Merci, petit. Je suis Flash, le Gardien de l\'Actu.'],
     ['flash', 'La Reine Pop-up me forçait à crier des titres mensongers toute la journée. Mes plumes en frémissent encore.'],
     ['spirit', 'Tu sais où sont les autres Gardiens ?'],
-    ['flash', 'La Gardienne des Tests est retenue au nord, dans la Forêt des Forums. Une barrière de Bruit ferme la route, près de l\'étang du nord.'],
-    ['flash', 'Ta Manette peut frapper le cristal qui la commande, de l\'autre côté de l\'eau. Et prends ceci : c\'est un fragment de la Source.'],
+    ['flash', 'La Gardienne des Tests est retenue au nord, dans la Forêt des Forums. Une barrière de Bruit ferme la route du nord, au bord de l\'étang.'],
+    ['flash', 'Lance ta Manette sur le cristal qui la commande, sur l\'îlot au milieu de l\'étang. Et prends ceci : c\'est un fragment de la Source.'],
   ],
   source: 'Tu as obtenu le premier fragment de la Source ! Plus que sept. Le Roi Clickbait commence à perdre des forces.',
   apresFlash: 'Flash t\'ouvre un passage de lumière vers la sortie.',
@@ -215,7 +215,7 @@ SG.TEXTES.donjon = {
 // descriptions des objets, pour l'écran des objets
 SG.OBJETS = {
   ampli: { nom: 'Ampli', touche: 'A', texte: 'Transforme ta voix en onde sonore. Elle bat les monstres, coupe l\'herbe, casse les pots et détruit les projectiles. Cœurs pleins : l\'onde part au loin.' },
-  manette: { nom: 'Manette Retour', touche: 'B', texte: 'Lance-la, elle revient dans ta main. Elle étourdit les monstres, frappe les cristaux à distance et rapporte les objets hors de portée.' },
+  manette: { nom: 'Manette Retour', touche: 'B', texte: 'Lance-la, elle revient dans ta main. Elle étourdit les monstres, casse les pots, active les cristaux (eux seuls y réagissent) et rapporte les objets hors de portée.' },
 };
 
 // ---------------------------------------------------------------- monstres du donjon

diff --git a/jeu-spirit/jeu/js/masques.js b/jeu-spirit/jeu/js/masques.js
@@ -92,7 +92,7 @@ SG.MASQUES = {
 "#####....................................~~~~~~~..~~~~~~...#####",
 "#####....................................~~~~~~~~~~~~~.....#####",
 "#####.....................................~~~~~~~~~~~~.....#####",
-"#####.......................................~~~~~~~~.......#####",
+"............................................~~~~~~~~............",
 ".............................................~~~~~~.............",
 "................................................................",
 "................................................................",
@@ -131,7 +131,7 @@ SG.MASQUES = {
 "################...........................................#####",
 "################...........................................#####",
 "################...........................................#####",
-"################...........................................#####",
+"################................................................",
 "################................................................",
 "################................................................",
 "################................................................",
@@ -167,8 +167,8 @@ SG.MASQUES = {
 "####............~..~.~~~~~~~~..............................#####",
 "####...........~~~~~~~~~~~~~~~.............................#####",
 "####.........~~~~~~~~~~~~~~~~~.............................#####",
-"####.........~~~~~~~~~~~~~~~~~~~...........................#####",
-"####..........~~~~~~~~~~~~~~~~~~~...~~.....................#####",
+"####.........~~~~~~~~~~~~~~~~~~~................................",
+"####..........~~~~~~~~~~~~~~~~~~~...~~..........................",
 "####...........~~~~~~~~~~~~~~~~~~~~~~~~~~.......................",
 "####...........~~~~~~~~~~~~~~~~~~~~~~~~~~.......................",
 "####............~~..~~~~~~~~~~~~~~~~~~~~~.~.....................",
@@ -211,7 +211,7 @@ SG.MASQUES = {
 "............................................................####",
 "............................................................####",
 "............................................................####",
-"#####.......................................................####",
+"............................................................####",
 "#####.......................................................####",
 "#####.......................................................####",
 "###############.............................................####",
@@ -243,7 +243,7 @@ SG.MASQUES = {
 "####......................................###..######...##..####",
 "####....................................######.######.#####.####",
 "####....................................##################..####",
-".......................................#################....####",
+"####...................................#################....####",
 ".......................................####..###########....####",
 ".......................................##....###########....####",
 ".......................................##....#####...##.....####",

diff --git a/jeu-spirit/jeu/js/base.js b/jeu-spirit/jeu/js/base.js
@@ -4,7 +4,7 @@
 const SG = {};
 SG.W = 1280;          // largeur logique de l'écran
 SG.H = 720;           // hauteur logique de l'aire de jeu
-SG.VERSION = 52;      // à augmenter à chaque mise en ligne : les anciennes sauvegardes sont effacées
+SG.VERSION = 54;      // à augmenter à chaque mise en ligne : les anciennes sauvegardes sont effacées
 SG.BANDE = 150;       // bandeau d'informations au-dessus de l'aire de jeu
 SG.HT = SG.H + SG.BANDE;
 SG.decalY = 0;

diff --git a/jeu-spirit/jeu/js/jeu.js b/jeu-spirit/jeu/js/jeu.js
@@ -1049,8 +1049,6 @@ SG.Jeu = class {
     } else {
       ctx.drawImage(this.fond(this.ecran), 0, 0, SG.W, SG.H);
     }
-    if (this.ecran === 'loge') this.dessinerEcransLoge(ctx);
-    if (this.ecran === 'bureau-lynx') this.dessinerEcransMika(ctx);
     // tout ce qui a une hauteur est trié par la position des pieds
     const liste = [];
     if (this.estDonjon()) this.objetsSalle(liste);

diff --git a/jeu-spirit/outils/decoupes_plaine.py b/jeu-spirit/outils/decoupes_plaine.py
@@ -27,6 +27,8 @@ F = W0 / 1280  # pixels d'origine par pixel logique
 # bouts de chemin sans issue collés au bord (effet de pavé) : remplacés par de l'herbe
 EFFACER = {'2,0': [(0, 270, 160, 410)]}
 
+RETOUCHER = False  # True : ancienne méthode (touffes découpées et sol reconstitué), abandonnée
+
 GARDER = {('1,2', 6), ('1,2', 7), ('1,2', 8)}
 
 
@@ -226,7 +228,8 @@ def traiter(k, apercus=None):
     for p in rochers:
         h, w = p['m'].shape
         tout_roc[p['y']:p['y'] + h, p['x']:p['x'] + w] |= p['m']
-    touffes = pieces_touffes(k, base, a, sombre, tout_roc)
+    # plus aucune retouche du sol peint (pas de collage) : les touffes restent dans l'image en attendant des écrans à sol vierge
+    touffes = [] if not RETOUCHER else pieces_touffes(k, base, a, sombre, tout_roc)
     # sol : herbe propre = herbe verte, sans trait noir, sans fleur, sans touffe
     sol = a.copy()
     trait = cv2.dilate(sombre, elli(5))
@@ -251,7 +254,7 @@ def traiter(k, apercus=None):
         if reboucher(sol, trou, propre):
             gardees.append(p)
     touffes = gardees
-    for (x0, y0, x1, y1) in EFFACER.get(k, []):
+    for (x0, y0, x1, y1) in (EFFACER.get(k, []) if RETOUCHER else []):
         z = np.zeros((H0, W0), np.uint8)
         z[int(y0 * F):int(y1 * F), int(x0 * F):int(x1 * F)] = 255
         sab = cv2.dilate(((R > G) & (R > 150)).astype(np.uint8) * 255, elli(9)) & z
@@ -263,7 +266,8 @@ def traiter(k, apercus=None):
                 if t.any():
                     if not reboucher(sol, t, propre, 0.05):
                         sol[:] = cv2.inpaint(sol, t, 7, cv2.INPAINT_TELEA)
-    prolonger_bords(sol, base)
+    if RETOUCHER:
+        prolonger_bords(sol, base)
     pieces = rochers + touffes
     pl = planche(pieces, a)
     # pieds des rochers : la moitié basse de la silhouette bloque, on passe derrière le haut

diff --git a/jeu-spirit/outils/masques_decors.py b/jeu-spirit/outils/masques_decors.py
@@ -100,7 +100,7 @@ def masque(cle):
     # sorties de côté : le couloir suit la largeur réelle du chemin peint (le chemin entier, pas une bande étroite)
     import numpy as np
     from PIL import Image
-    sol = os.path.join(os.path.dirname(__file__), '..', 'images', 'plaine', 'sol', 'ecran-' + cle.replace(',', '-') + '.png')
+    sol = os.path.join(os.path.dirname(__file__), '..', 'images', src)
     if os.path.exists(sol):
         a = np.array(Image.open(sol).convert('RGB').resize((1280, 720))).astype(int)
         for col, xs, cols in ((0, slice(5, 60), range(0, 6)), (COLS - 1, slice(1220, 1275), range(COLS - 6, COLS))):

diff --git a/jeu-spirit/outils/preparer_assets.py b/jeu-spirit/outils/preparer_assets.py
@@ -212,7 +212,7 @@ def main():
     # écrans de la Plaine : sol sans les touffes découpées (outils/decoupes_plaine.py), s'il existe
     for nom in list(LISTE):
         sol = os.path.join('plaine', 'sol', nom + '.png')
-        if nom.startswith('ecran-') and os.path.exists(os.path.join(IMG, sol)):
+        if False and nom.startswith('ecran-') and os.path.exists(os.path.join(IMG, sol)):
             LISTE[nom] = (sol,) + tuple(LISTE[nom][1:])
     seules = sys.argv[1:]  # noms donnés en argument : on ne refait que ceux-là
     for nom, (src, axe, taille, opt) in LISTE.items():

diff --git a/jeu-spirit/CLAUDE.md b/jeu-spirit/CLAUDE.md
@@ -1,0 +1,29 @@
+# Jeu « Spirit et le Roi Clickbait » : règles à respecter
+
+Ces règles viennent de Jonathan, au fil des tests. Elles valent pour toute modification du jeu, du plan ou des prompts du catalogue.
+
+## Cohérence entre le texte et ce qu'on voit
+Après chaque modification, relire les textes concernés (SG.TEXTES dans `jeu/js/monde.js`, SG.TEXTES.donjon et SG.OBJETS dans `jeu/js/donjon.js`, panneaux) :
+- ce que disent les personnages, les panneaux et les descriptions d'objets doit correspondre exactement à ce qui est à l'écran et à ce que le jeu permet (un écran décrit comme planté doit l'être à l'image, un objet décrit comme cassant les pots doit les casser) ;
+- quand une règle de jeu change (qui active quoi, ce qu'on peut couper), mettre à jour tous les textes qui en parlent ;
+- ne jamais dévoiler la suite (la grotte, la forêt, les objets à venir) avant que le joueur y arrive ;
+- l'heure, les lieux et les noms restent cohérents (la fête a lieu le soir ; le frère de Spirit s'appelle Mika, un lynx qui se prend pour le boss).
+
+## Jamais de collage
+Ne jamais dessiner, recoller ou reconstituer quoi que ce soit par-dessus une image peinte (écrans, touffes, sol refait, cadres, bouts de décor). S'il manque quelque chose, ajouter une carte au catalogue pour ChatGPT et attendre l'image : Jonathan préfère patienter plutôt qu'un rendu bricolé. Les seules exceptions sont les objets et personnages prévus pour être posés (sprites) et les effets animés (flash, secousse, particules).
+
+## Logique du monde
+- Rien de collé : les écrans et salles partent d'un sol vierge ; seuls trous, eau, lave et falaises sont peints dans le sol. Les objets sont posés par le jeu, avec les mêmes couleurs que le décor.
+- Quadrillage invisible : dans les salles, 13 × 6 dalles de 80 pixels logiques (104,5 px dans l'image de 1672). Tout objet est posé sur une dalle, bien de face, jamais en biais.
+- Portes : un tunnel dans l'épaisseur du mur où le personnage tient entier ; on change de salle dès l'embrasure ; aucune porte fermée ne laisse entrer Spirit ; rien devant une porte.
+- Seul le pied des objets bloque : on passe derrière statues, rochers, braseros.
+- Les cristaux ne réagissent qu'à la Manette. Les énigmes ne donnent pas la solution (pas de halo sur l'objet à pousser).
+- Pas de mécanisme qui demande un objet que le joueur n'a pas encore (pas de mur fêlé sans bombes).
+
+## Images
+- Tout prompt avec Spirit rappelle le SG sur le casque. Dimensions 1672 × 941 pour les écrans entiers.
+- Une retouche « porte ouverte » ou « écran allumé » n'est reprise que sur sa zone (COMPOSITES dans `outils/preparer_assets.py`).
+- Une carte du catalogue disparaît quand ses images sont reçues ; ajouter une carte en fin de région pour ne pas décaler les codes.
+
+## Livraison
+Tester (Playwright : donjon complet, sorties de la Plaine, prologue du QG), augmenter SG.VERSION, refaire le zip, republier l'artefact et le catalogue, pousser sur la branche, répondre en français sans tirets cadratins ni emojis.
